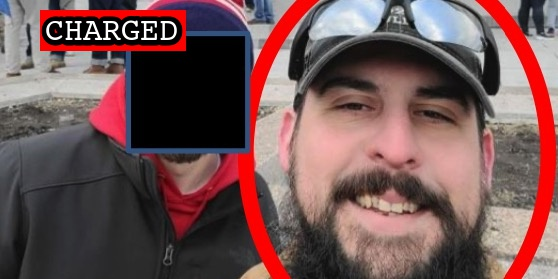
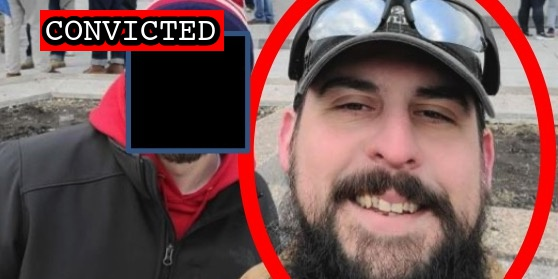
Rossman plea

Changed region(s): [[0.0914, 0.0287, 0.4265, 0.2007]]

diff --git a/docs/_suspects/devin-rossman.md b/docs/_suspects/devin-rossman.md
@@ -4,18 +4,19 @@ lastName: Rossman
 hashtag:
 aka:
 residence: Missouri
-status: Charged
+status: Convicted
 date: 2022-05-12
 charged: 2022-05-12
 indicted:
-convicted:
+convicted: 2022-09-09
 acquitted:
 sentenced:
 dismissed:
 deceased:
-plea_hearing:
+plea_hearing: 2022-09-09
 trial_date:
-sentencing:
+trial_type:
+sentencing: 2022-12-09
 age:
 occupation:
 affiliations:
@@ -36,8 +37,15 @@ published: true
 caseNumber: 1:22-mj-105
 videos:
 charges:
+  - code: 40 USC § 5104(e)(2)(G)
+    title: Parading, demonstrating or picketing in a Capitol building
+    url: https://www.law.cornell.edu/uscode/text/40/5104
+    felony: false
 sentence:
 ---
+
 - [News Report](https://www.kshb.com/news/crime/independence-man-charged-in-connection-to-capitol-riot)
 - [Complaint](https://www.justice.gov/usao-dc/case-multi-defendant/file/1505936/download)
 - [Statement of Facts](https://www.justice.gov/usao-dc/case-multi-defendant/file/1505941/download)
+- [Information](https://storage.courtlistener.com/recap/gov.uscourts.dcd.246436/gov.uscourts.dcd.246436.17.0.pdf)
+- [Statement of Offense](https://storage.courtlistener.com/recap/gov.uscourts.dcd.246436/gov.uscourts.dcd.246436.22.0.pdf)
